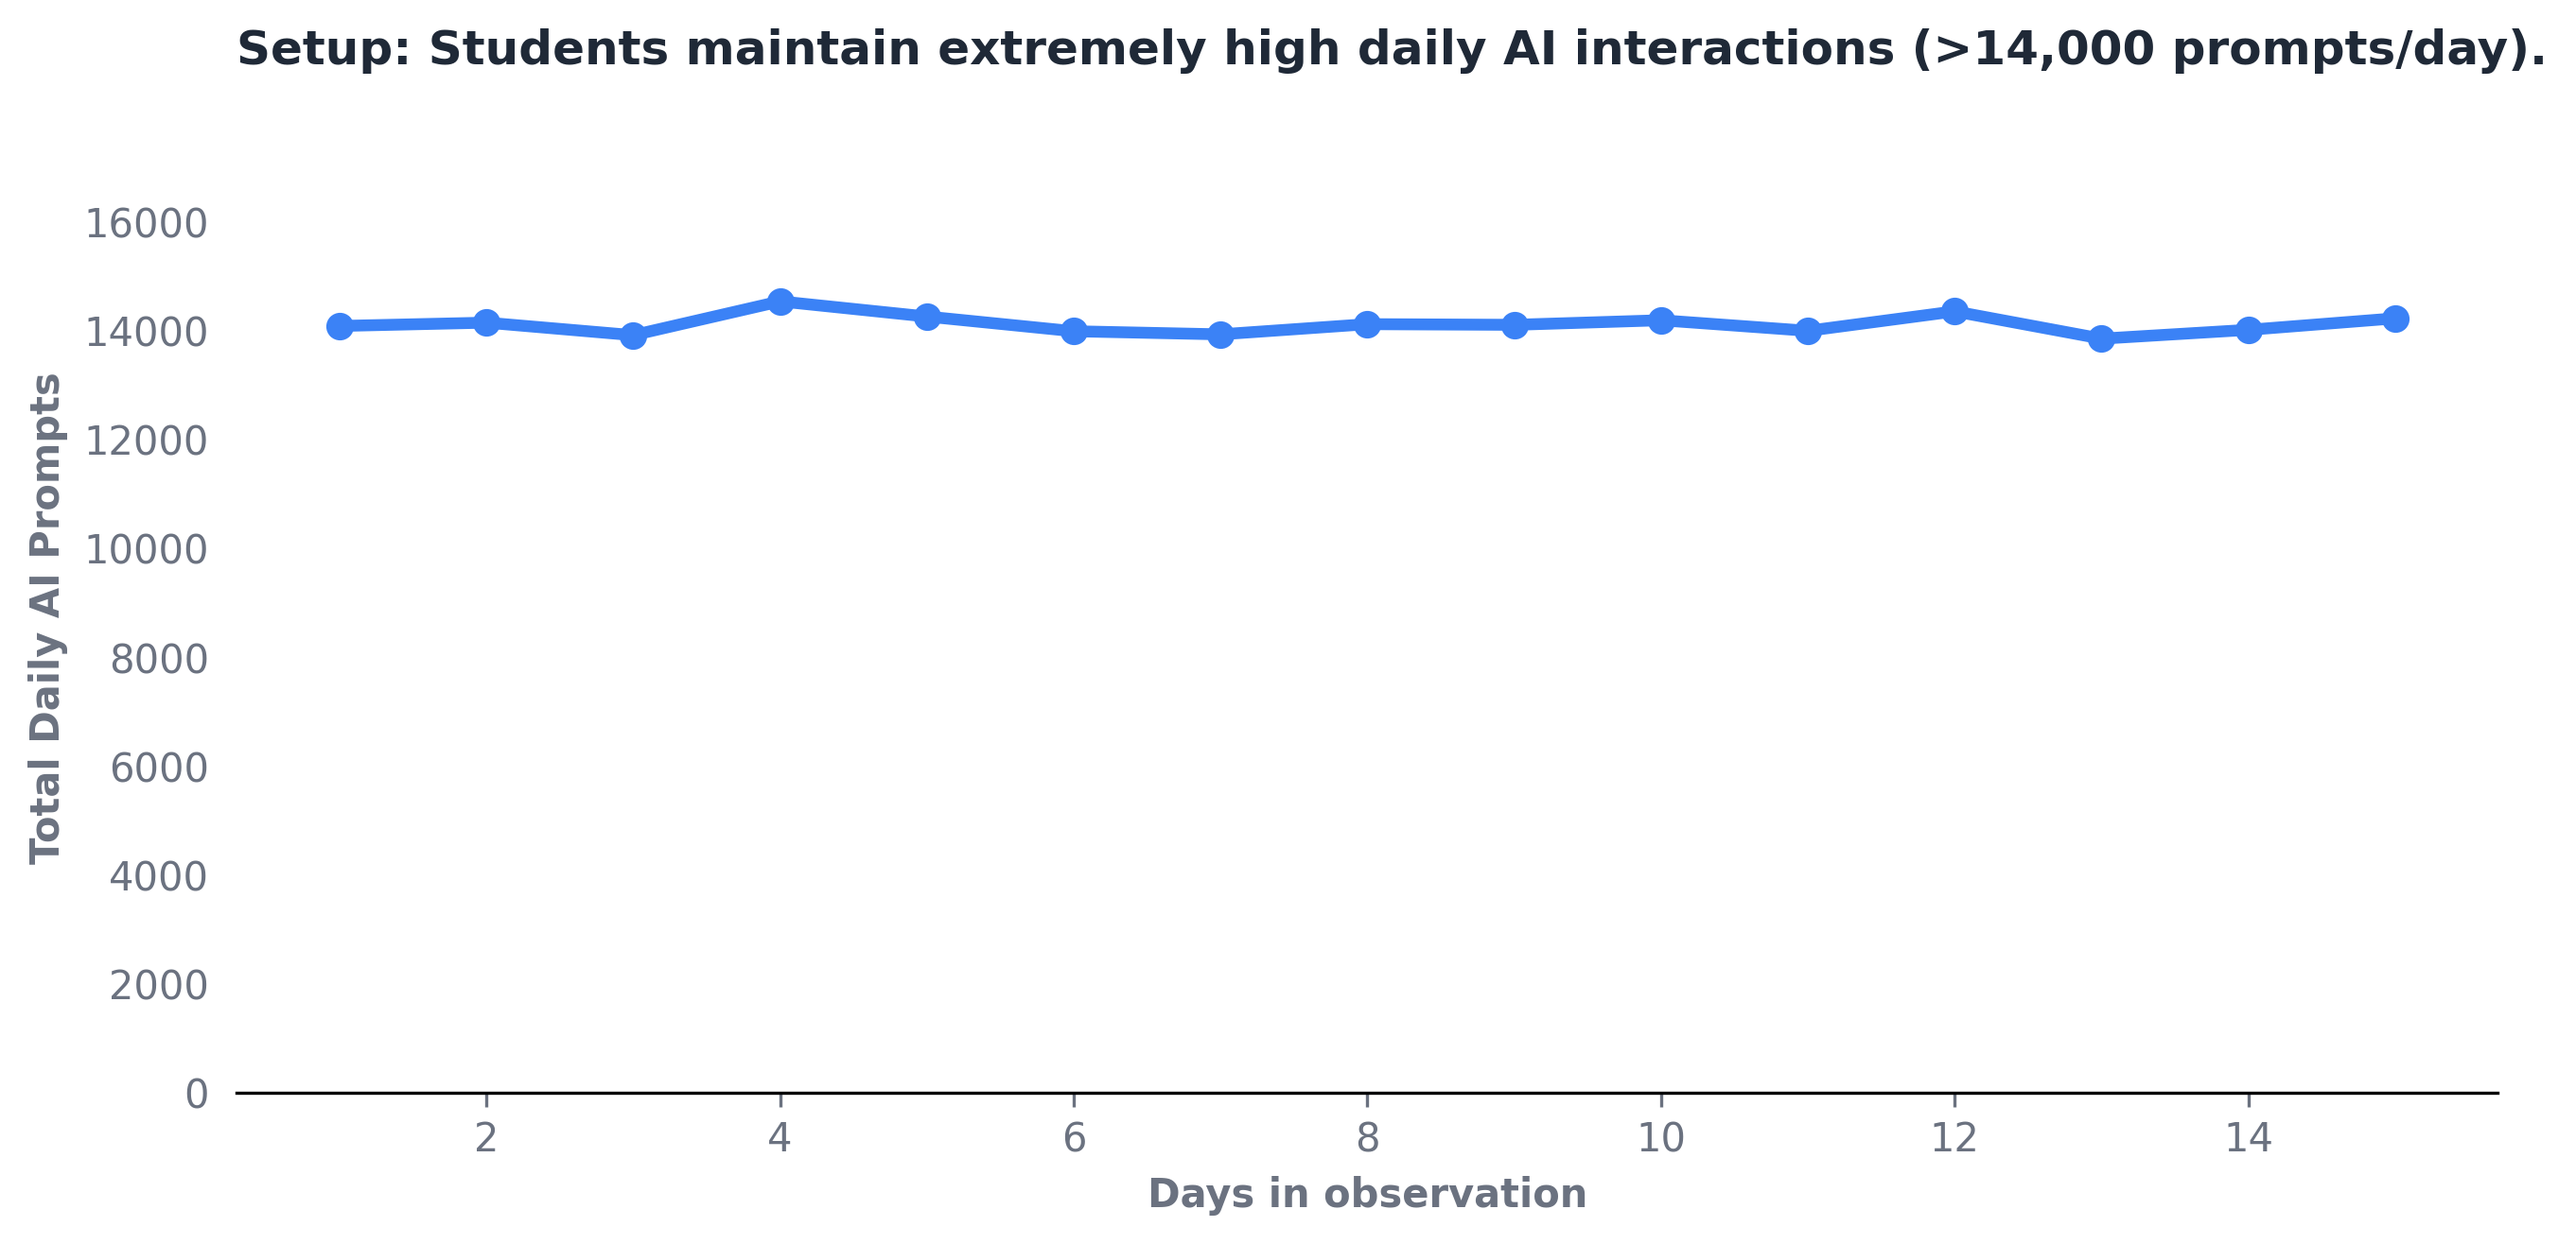
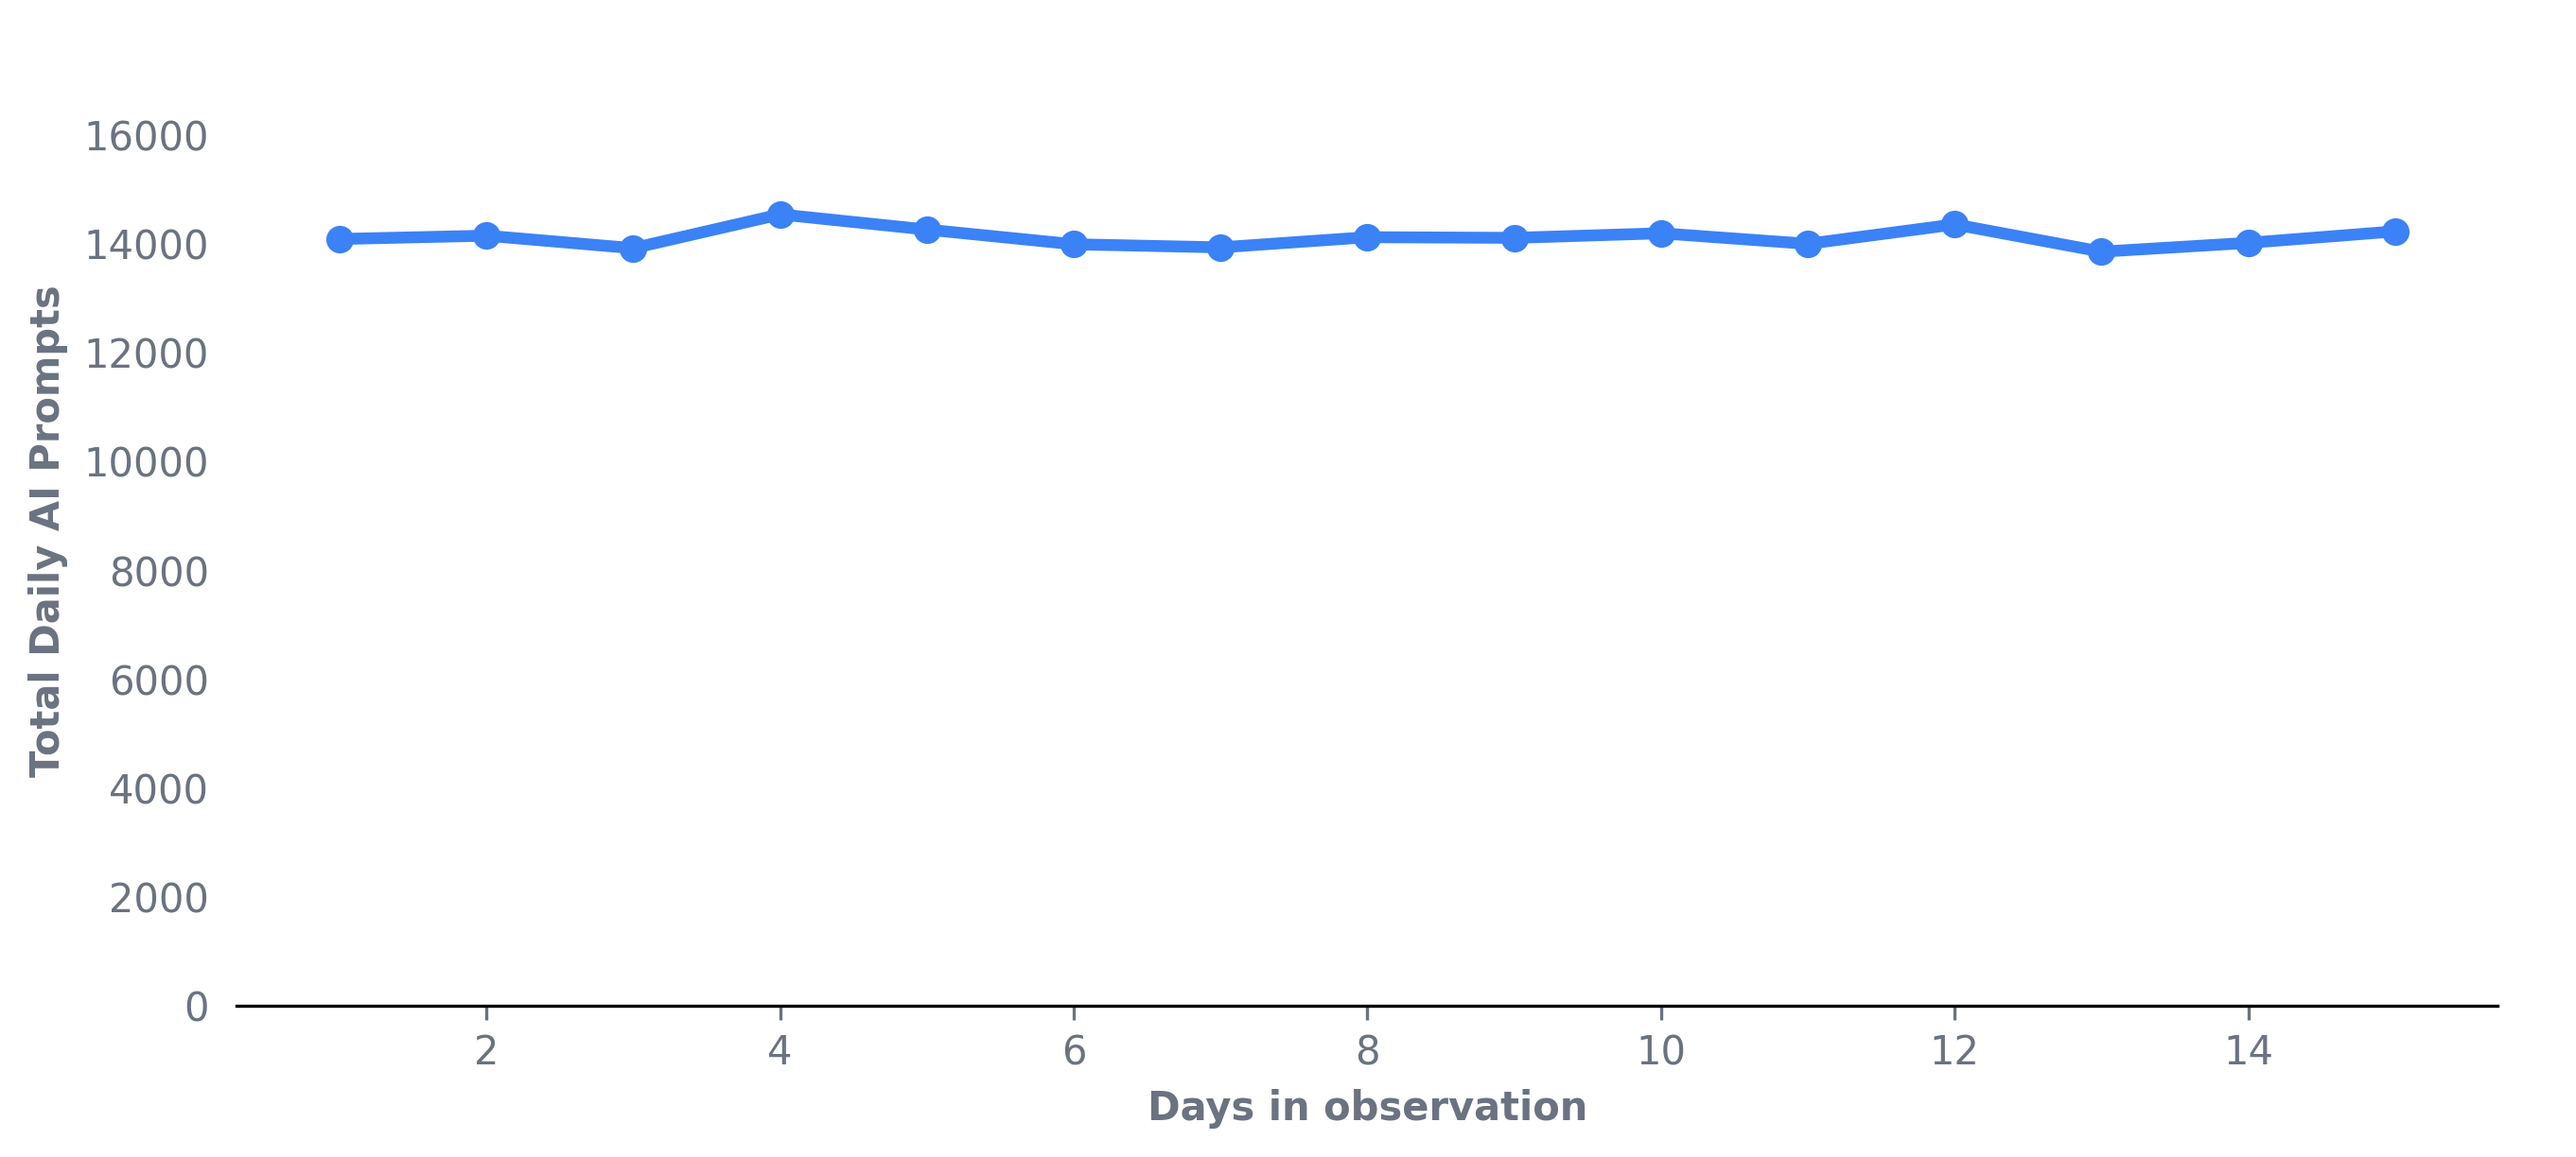
fix: refine portfolio content and charts

diff --git a/index.html b/index.html
@@ -184,8 +184,8 @@
         <div class="container">
             <div class="section-header">
                 <span class="section-badge red">⚡ Challenge</span>
-                <h2 class="section-title">The Problem: A Broken Checkpoint</h2>
-                <p class="section-subtitle">Eastbrook's workflow has five steps. The failure point is step 3 — the verification checkpoint students skip under pressure while the school sees the risk too late to intervene.</p>
+                <h2 class="section-title">The Problem</h2>
+                <p class="section-subtitle">The evidence shows a repeatable pattern across Eastbrook's student population: very high AI use, weak verification habits, physical strain, and educator visibility that arrives too late to prevent risk from becoming chronic.</p>
             </div>
 
             <div class="problems-grid">
@@ -627,7 +627,7 @@
             <!-- Chart: Daily Prompts -->
             <div class="dashboard-feature">
                 <div class="feature-info">
-                    <h3><i class="fas fa-chart-line"></i> Evidence #1: Setup — Extreme Daily Volume</h3>
+                    <h3><i class="fas fa-chart-line"></i> Evidence #1: Extreme Daily Volume</h3>
                     <p class="feature-tagline"><em>"Students maintain extremely high daily AI interactions (&gt;14,000 prompts/day)"</em></p>
                     <ul class="feature-list">
                         <li><i class="fas fa-check"></i> <strong>14,119 total prompts per day</strong> across 400 students</li>
@@ -642,14 +642,14 @@
                     </div>
                 </div>
                 <div class="feature-image">
-                    <img src="images/chart-setup.png" alt="Setup chart: 14,119 daily AI prompts over 15 observation days">
+                    <img src="images/chart-setup.png" alt="Daily prompt volume chart showing 14,119 AI prompts across 15 observation days">
                 </div>
             </div>
 
             <!-- Chart: Verification -->
             <div class="dashboard-feature reverse">
                 <div class="feature-info">
-                    <h3><i class="fas fa-check-double"></i> Evidence #2: Conflict — Stagnant Verification</h3>
+                    <h3><i class="fas fa-check-double"></i> Evidence #2: Stagnant Verification</h3>
                     <p class="feature-tagline"><em>"Despite high usage, independent fact-checking remains stagnant at ~56%"</em></p>
                     <ul class="feature-list">
                         <li><i class="fas fa-check"></i> <strong>56.0% average verification rate</strong> — barely above the midpoint</li>
@@ -664,14 +664,14 @@
                     </div>
                 </div>
                 <div class="feature-image">
-                    <img src="images/chart-verification.png" alt="Conflict chart: verification rate stagnant at 56% across 15 days">
+                    <img src="images/chart-verification.png" alt="Verification trend chart showing a roughly 56% verification rate across 15 observation days">
                 </div>
             </div>
 
             <!-- Chart: Physical Strain -->
             <div class="dashboard-feature">
                 <div class="feature-info">
-                    <h3><i class="fas fa-heartbeat"></i> Evidence #3: Conflict — Persistent Physical Strain</h3>
+                    <h3><i class="fas fa-heartbeat"></i> Evidence #3: Persistent Physical Strain</h3>
                     <p class="feature-tagline"><em>"Sustained unmoderated usage drives severe, persistent physical strain"</em></p>
                     <ul class="feature-list">
                         <li><i class="fas fa-check"></i> <strong>Eye dryness: 7.1/10</strong> average — well above comfortable threshold</li>
@@ -686,7 +686,7 @@
                     </div>
                 </div>
                 <div class="feature-image">
-                    <img src="images/chart-strain.png" alt="Conflict chart: eye dryness 7.1/10 and neck pain 5.9/10 across 15 observation days">
+                    <img src="images/chart-strain.png" alt="Physical strain chart showing eye dryness at 7.1 out of 10 and neck pain at 5.9 out of 10 across 15 observation days">
                 </div>
             </div>
 
@@ -838,35 +838,6 @@
                 </div>
             </div>
 
-            <div class="roadmap">
-                <h3 class="subsection-title"><i class="fas fa-road"></i> 🚀 Project Roadmap</h3>
-                <div class="roadmap-timeline">
-                    <div class="timeline-item">
-                        <div class="timeline-marker">1</div>
-                        <div class="timeline-content">
-                            <h4>Weeks 1-2: Problem Framing &amp; Charter</h4>
-                            <p>Problem definition, stakeholder scope, KPI selection, project charter. Team alignment on verification as the core modifiable behavior.</p>
-                            <small><strong>Status:</strong> ✅ Complete</small>
-                        </div>
-                    </div>
-                    <div class="timeline-item">
-                        <div class="timeline-marker">2</div>
-                        <div class="timeline-content">
-                            <h4>Weeks 3-6: Dataset, ERD &amp; AS-IS Dashboard</h4>
-                            <p>ERD design, Python data generation (12,000 rows, 34 fields), AS-IS analytics dashboard deployed on Vercel, chart evidence extracted.</p>
-                            <small><strong>Status:</strong> ✅ Complete · Live at easterbook-youth-ai-dashboard.vercel.app</small>
-                        </div>
-                    </div>
-                    <div class="timeline-item">
-                        <div class="timeline-marker">3</div>
-                        <div class="timeline-content">
-                            <h4>Weeks 7-8: MVP Platform &amp; Portfolio</h4>
-                            <p>React + Express + Neon app with three role-based interfaces, TO-BE comparison view, nudge logic, JWT auth, and this portfolio site.</p>
-                            <small><strong>Status:</strong> ✅ Complete · Live at eastbrook-ai-platform.vercel.app</small>
-                        </div>
-                    </div>
-                </div>
-            </div>
         </div>
     </section>
 
@@ -1027,13 +998,13 @@
                     <small>Data Analyst — data structure, analysis logic, and evidence extraction</small>
                 </div>
                 <div class="team-member">
-                    <div class="member-avatar">VK</div>
-                    <h4>Vinay</h4>
+                    <div class="member-avatar">VB</div>
+                    <h4>Vinay Reddy Beeram</h4>
                     <small>Technical Lead — enterprise architecture, system design, and implementation</small>
                 </div>
                 <div class="team-member">
                     <div class="member-avatar">AP</div>
-                    <h4>Arjun Penmatsa</h4>
+                    <h4>Arjun Pinapothu</h4>
                     <small>Documentation Lead — portfolio storytelling, synthesis, and prototype pipeline</small>
                 </div>
             </div>
@@ -1048,8 +1019,8 @@
                             <th style="padding:12px 16px; text-align:center; color:var(--white);">Tejaswini</th>
                             <th style="padding:12px 16px; text-align:center; color:var(--white);">Pavani</th>
                             <th style="padding:12px 16px; text-align:center; color:var(--white);">Vardhan</th>
-                            <th style="padding:12px 16px; text-align:center; color:var(--white);">Vinay</th>
-                            <th style="padding:12px 16px; text-align:center; color:var(--white);">Arjun</th>
+                            <th style="padding:12px 16px; text-align:center; color:var(--white);">Vinay Reddy Beeram</th>
+                            <th style="padding:12px 16px; text-align:center; color:var(--white);">Arjun Pinapothu</th>
                         </tr>
                     </thead>
                     <tbody>
@@ -1165,7 +1136,7 @@
                     <a href="https://github.com/Arjun2179/Easterbook-Youth-AI-Dashboard" target="_blank"><i class="fab fa-github"></i> GitHub</a>
                     <a href="https://eastbrook-ai-platform.vercel.app/compare" target="_blank"><i class="fas fa-exchange-alt"></i> Comparison</a>
                 </div>
-                <p class="footer-copyright">&copy; 2025 Eastbrook Youth AI Well-Being · Team 1: Tejaswini, Pavani, Vardhan, Vinay &amp; Arjun</p>
+                <p class="footer-copyright">&copy; 2025 Eastbrook Youth AI Well-Being · Team 1: Tejaswini, Pavani, Vardhan, Vinay Reddy Beeram &amp; Arjun Pinapothu</p>
             </div>
         </div>
     </footer>

diff --git a/styles.css b/styles.css
@@ -1064,14 +1064,6 @@ section {
     margin-top: 4px;
 }
 
-/* Timeline Enhanced */
-.timeline-content small {
-    display: block;
-    margin-top: 8px;
-    color: var(--accent-green);
-    font-size: 0.8rem;
-}
-
 /* Team Member Enhanced */
 .team-member small {
     display: block;
@@ -1884,51 +1876,6 @@ section {
     color: var(--gray-400);
 }
 
-.roadmap-timeline {
-    display: flex;
-    gap: 30px;
-}
-
-.timeline-item {
-    flex: 1;
-    display: flex;
-    gap: 20px;
-    background: var(--gray-800);
-    padding: 30px;
-    border-radius: var(--radius-lg);
-    border: 1px solid var(--gray-700);
-    transition: var(--transition-normal);
-}
-
-.timeline-item:hover {
-    transform: translateY(-5px);
-    border-color: var(--primary);
-}
-
-.timeline-marker {
-    width: 50px;
-    height: 50px;
-    background: var(--gradient-primary);
-    border-radius: var(--radius-full);
-    display: flex;
-    align-items: center;
-    justify-content: center;
-    font-weight: 800;
-    color: var(--white);
-    font-size: 1.3rem;
-    flex-shrink: 0;
-}
-
-.timeline-content h4 {
-    color: var(--white);
-    margin-bottom: 8px;
-}
-
-.timeline-content p {
-    color: var(--gray-400);
-    font-size: 0.9rem;
-}
-
 /* ===============================================
    Future Development Section
    =============================================== */
@@ -2331,26 +2278,6 @@ section {
     flex-wrap: wrap;
 }
 
-.timeline-item-mini {
-    display: flex;
-    align-items: center;
-    gap: 12px;
-    background: var(--gray-800);
-    padding: 12px 20px;
-    border-radius: var(--radius-md);
-}
-
-.timeline-item-mini .date {
-    color: var(--accent-blue);
-    font-weight: 600;
-    font-size: 0.9rem;
-}
-
-.timeline-item-mini .milestone {
-    color: var(--gray-300);
-    font-size: 0.85rem;
-}
-
 /* ===============================================
    Resources Section
    =============================================== */
@@ -2638,9 +2565,6 @@ section {
         grid-template-columns: 1fr;
     }
 
-    .roadmap-timeline {
-        flex-direction: column;
-    }
 }
 
 @media (max-width: 768px) {

diff --git a/script.js b/script.js
@@ -158,7 +158,6 @@ document.addEventListener('DOMContentLoaded', function() {
         '.layer-card',
         '.ethics-card',
         '.metric',
-        '.timeline-item',
         '.team-member',
         '.lesson-card',
         '.resource-card',
